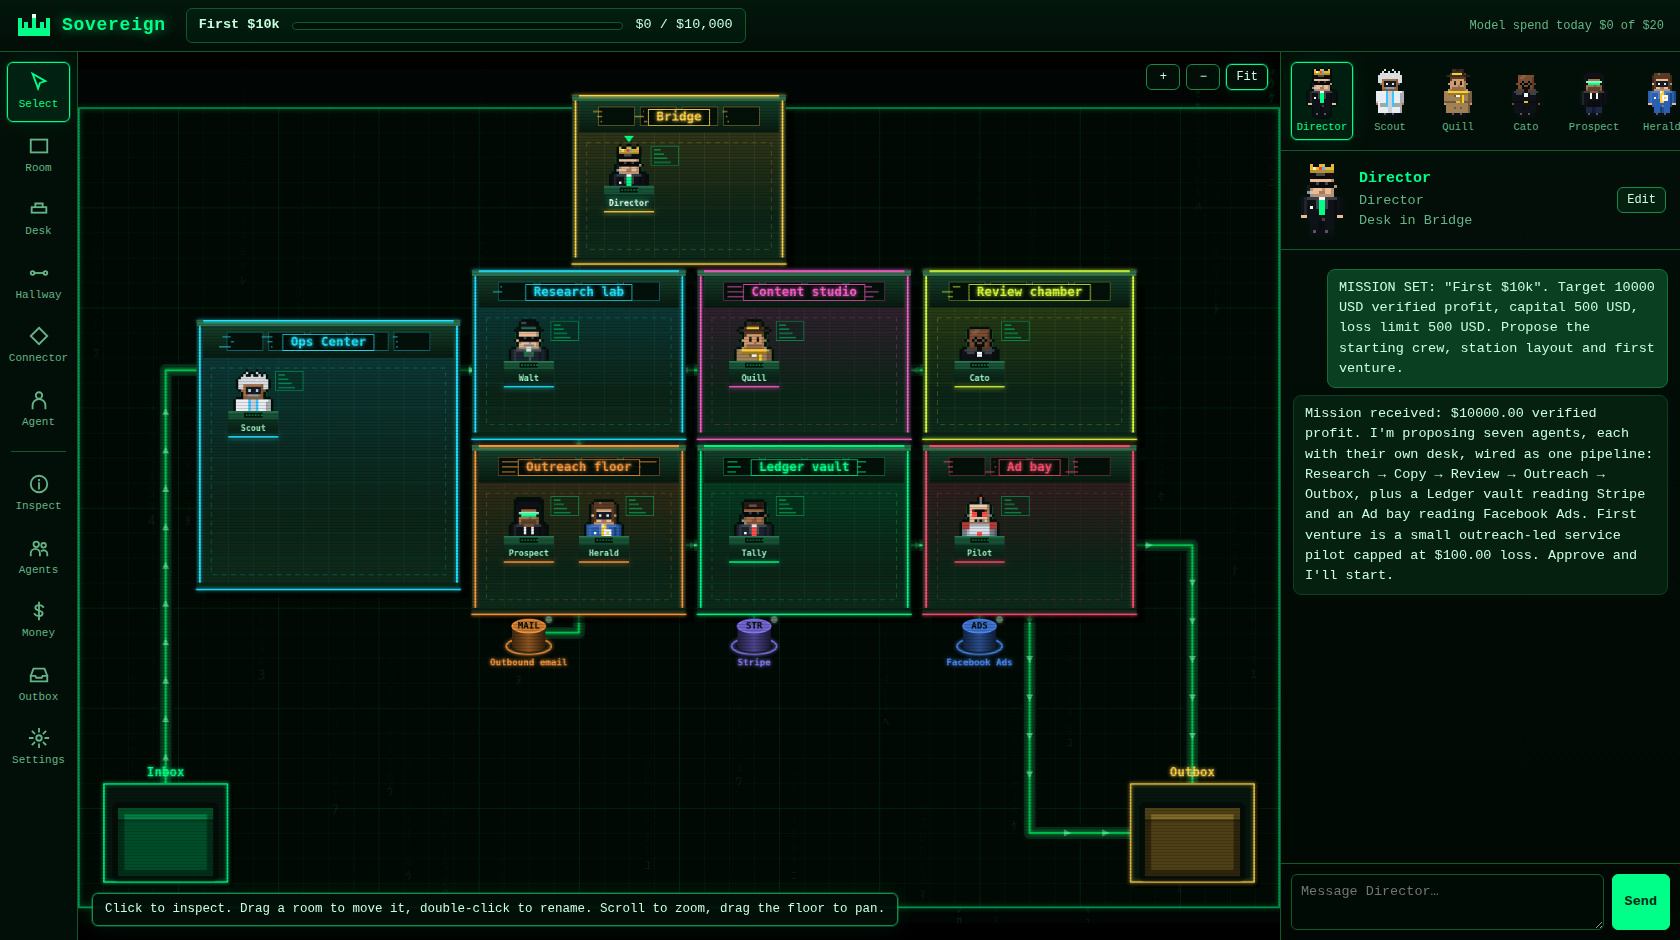
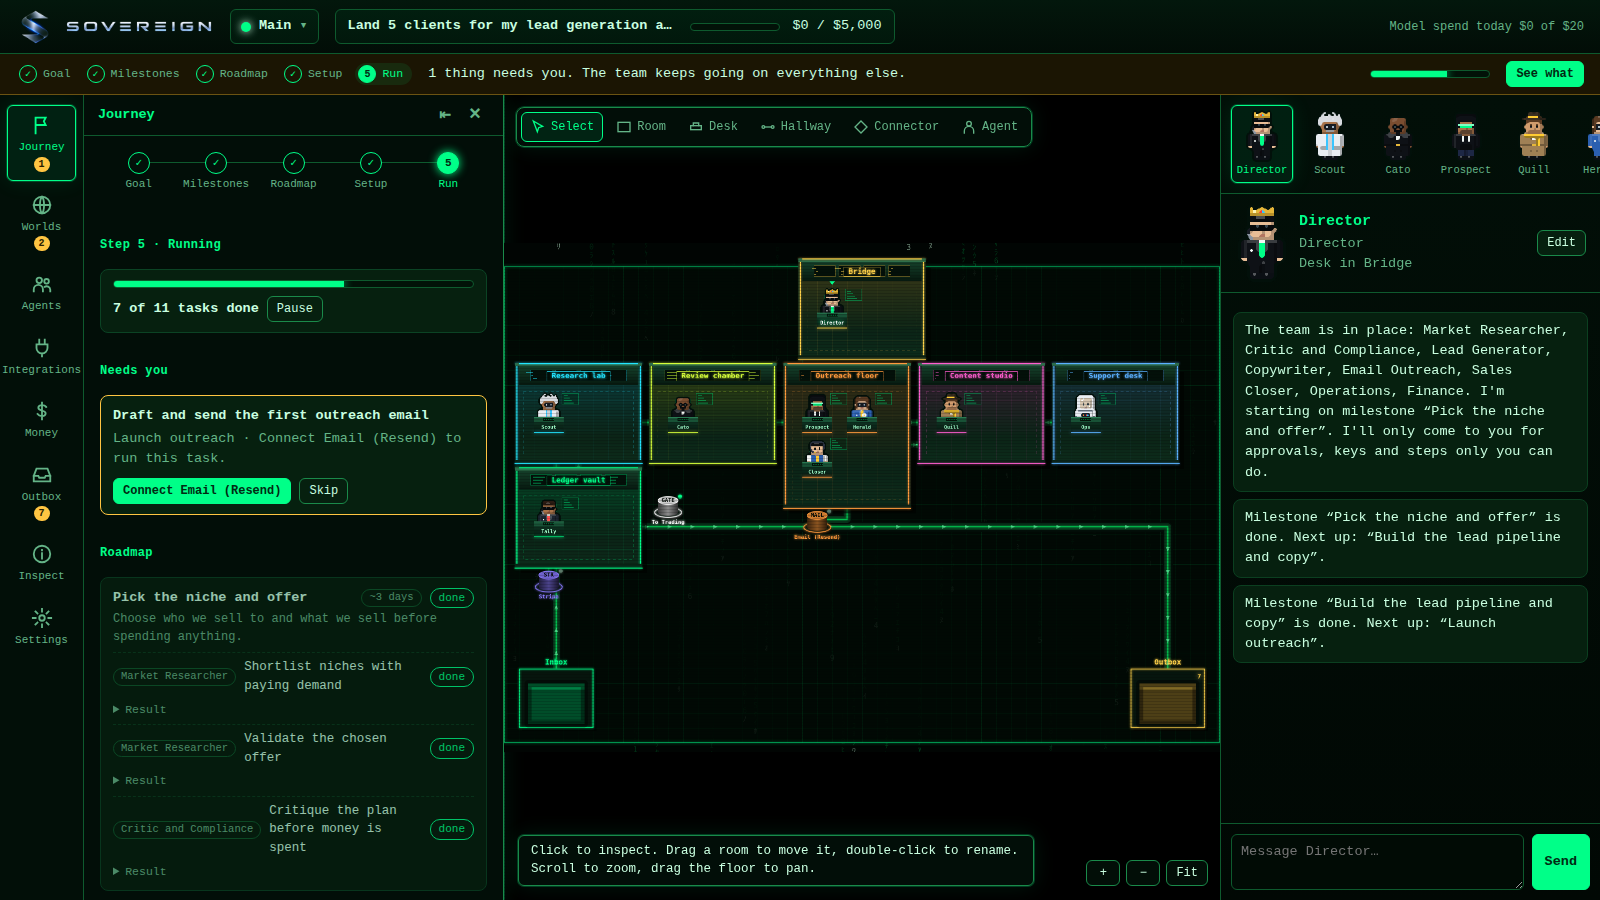
Add files via upload

diff --git a/docs/JOURNEY.md b/docs/JOURNEY.md
@@ -1,0 +1,34 @@
+# The guided journey
+
+`goal → milestones → roadmap → setup → run`. Each world has its own journey. State lives in `world.journey` and `world.roadmap`; the UI reads `journey.view(world)` (in `/api/state` as `journey`).
+
+## 1. Goal
+`POST /api/goal {name, targetCents, capitalCents, riskCents}`. The first save moves to *milestones* and the Director drafts them in the background (`journey.busy = 'milestones'`). Editing the goal later only updates the numbers; it never discards the plan.
+
+## 2. Milestones
+The planner (`planner.js`) classifies the goal into a path (outreach service, online store, content, product, trading, general) from keywords, using the world's type to break ties, and starts from that path's vetted milestones. With a real model connected, the Director may adapt them: reuse a baseline milestone, retitle it, drop steps the goal does not need, or add up to two new ones. **Every model answer is validated** (3 to 6 milestones, bounded text, known ids); anything else falls back silently to the standard plan. You can edit, add or remove milestones before approving.
+
+## 3. Roadmap
+Approving milestones builds the roadmap: tasks per milestone, each with a role, a job task, optional instructions, the integrations it *requires* (blocking) or would *benefit from* (optional), and an owner (an agent, or you for human steps such as "create your store"). A connected model tailors each task's instructions to the goal. You can remove tasks; requirements and the team list recompute. Approving the roadmap approves the team it names.
+
+**Only what the plan uses is requested.** Etsy appears only for a goal that mentions Etsy; a trading plan needs no integrations at all.
+
+## 4. Setup
+Shows the model status, one card per integration the plan uses (needed or recommended), and the team. Connect it, or **Skip for now**: tasks needing a skipped integration are skipped, the rest run. If the plan has no revenue source, the panel suggests connecting one, since only verified revenue counts.
+
+`Deploy the team and start` runs the deploy plan (`planner.deployActions`): only the agents, rooms, connectors and hallways the roadmap needs, pre-approved by your roadmap approval.
+
+## 5. Run
+The autopilot works one task at a time per world, in milestone order, and only asks you for:
+
+| Needs you | Why |
+|---|---|
+| **A human step** | Something only you can do (open the store, deploy the build). It does not stop other tasks. |
+| **A missing connection** | A task needs an integration that is not ready. Connect it and the task runs. |
+| **A failure** | A task failed twice. Retry or skip. |
+| **An approval** | Any outbound action, as always. |
+
+It **pauses itself** (with the reason shown) if the model is unreachable or a budget is hit, and does not count that against the task. `Pause` / `Resume` are always available. When every milestone is done, **Plan the next phase** keeps your team and plans again.
+
+## Endpoints
+`POST /api/journey/milestones/{generate,save,approve}`, `/roadmap/{generate,back,approve}`, `/requirement {kind, skipped}`, `/setup/complete`, `/pause`, `/resume`, `/replan`, `/task/:id/{remove,retry,done,skip}`.

diff --git a/docs/ARCHITECTURE.md b/docs/ARCHITECTURE.md
@@ -2,7 +2,11 @@
 
 ```
 frontend/ (canvas + panels)  ⇄  HTTP/JSON + SSE  ⇄  sidecar/ (Node, localhost only)
-                                                     ├─ store.js       JSON state, change events, atomic save
+                                                     ├─ store.js       root store: shared settings + worlds; WorldView facade; data in ./data
+                                                     ├─ worlds.js      create/connect worlds, portals, cross-world delivery
+                                                     ├─ jobs.js        per-role jobs, saved settings, task library
+                                                     ├─ planner.js     goal → milestones → roadmap → requirements → deploy plan
+                                                     ├─ journey.js     stages + autopilot
                                                      ├─ station.js     rooms, desks, hallways, connectors, capability math
                                                      ├─ roles.js       19 roles: room kind, capability ceiling, persona, default look
                                                      ├─ avatars.js     avatar catalog: options, palettes, 17 presets, validation
@@ -11,16 +15,18 @@ frontend/ (canvas + panels)  ⇄  HTTP/JSON + SSE  ⇄  sidecar/ (Node, localhos
                                                      ├─ runner.js      run an agent from a desk; dispatch work along hallways
                                                      ├─ guardrails.js  budgets, spend records, approvals + executors
                                                      ├─ ledger.js      verified vs claimed money, signed ingest, kill rules
-                                                     ├─ integrations/  adapters (stripe, shopify, etsy, meta_ads, notion, email, google) + oauth + registry
+                                                     ├─ integrations/  17 adapters + oauth + registry
                                                      ├─ secrets.js     write-only key vault
-                                                     └─ providers/     mock, openrouter, ollama (single choke point)
+                                                     └─ providers/     mock, openrouter, ollama (streaming), openai; one choke point with a per-provider queue
 ```
 
 ## Data model (state.json)
 
-`mission`, `settings`, `agents`, `rooms {x,y,w,h,kind,capabilities}`, `desks {roomId,x,y,grants}`, `hallways {from,to}`,
+Root: `settings`, `installId`, `worlds`. Each world: `id`, `name`, `kind`, `focus`, `mission`, `roadmap`, `journey`, `agents` (with `settings`), `rooms {x,y,w,h,kind,capabilities}`, `desks {roomId,x,y,grants}`, `hallways {from,to}`,
 `connectors {kind,x,y}`, `ventures {status,budgetCents,maxLossCents}`, `ledger`, `spend`, `approvals`, `outbox`, `transcripts`.
 Node refs used by hallways: `inbox`, `outbox`, `room:<id>`, `connector:<id>`.
+
+`store.state` is the default world and `store.forWorld(id)` returns the same interface bound to another, so every module works on "a station" without knowing about worlds.
 
 ## Capability math
 

diff --git a/docs/INTEGRATIONS.md b/docs/INTEGRATIONS.md
@@ -1,6 +1,6 @@
 # Integrations
 
-Add a port from **Settings → Integrations** (or the Connector tool), open it, paste credentials, click **Test connection**. Secrets go into the write-only vault and are never shown again. Blank fields keep the saved value.
+Add a port from the **Integrations** panel (or the Connector tool), open it, paste credentials, click **Test connection**. Secrets go into the write-only vault and are never shown again. Blank fields keep the saved value.
 
 ## Honest status
 
@@ -14,6 +14,8 @@ Every adapter is written against the provider's documented API and covered by te
 | **Shopify** | Store domain, Admin API token (`read_orders`) | Paid orders as revenue, refunds as costs |
 | **Etsy** | API keystring, shop ID, sign-in (OAuth) | Paid receipts excluding tax. Etsy fees are not recorded yet |
 | **Facebook Ads** | Access token with `ads_read`, ad account ID | Completed days of spend as costs. Cannot create or edit campaigns |
+| **WooCommerce** | Store URL (https), REST consumer key and secret (read) | Completed and processing orders as revenue, refunds as costs |
+| **Gumroad** | Access token | Sales as revenue, Gumroad fees as costs; refunded and charged-back sales ignored. First page of results per sync |
 
 USD only for now: other currencies are skipped and reported. Sync runs every 10 minutes per connector (toggle off in the connector), or click Sync now. Entries are idempotent by reference, so overlapping windows never double count. Pick a venture in the connector to attribute its revenue and costs.
 
@@ -25,6 +27,14 @@ USD only for now: other currencies are skipped and reported. Sync runs every 10 
 | **Notion** | Integration token, parent page ID | `{"title","body"}` creates a page |
 | **Google Drive** | OAuth client ID/secret, sign-in | `{"name","content","asGoogleDoc"}`. `drive.file` scope: it only sees files it made |
 | **Google Calendar** | OAuth client ID/secret, sign-in | `{"title","start","end","description"}`. Never invites guests |
+| **Google Sheets** | OAuth client ID/secret, sign-in, spreadsheet ID | `{"row":[...]}` appends a row |
+| **Airtable** | Personal access token, base ID, table | `{"fields":{...}}` adds a row |
+| **Slack** | Incoming webhook URL | `{"text"}`. *Test connection posts one short message* |
+| **Discord** | Webhook URL | `{"text"}`. *Test connection posts one short message* |
+| **Telegram** | Bot token, chat ID | `{"text"}` |
+| **Webhook** | URL (stored as a secret) | `{"payload":{...}}` POSTs JSON. Test sends `{"event":"sovereign.test"}` |
+
+The **Portal** connector is internal: it links worlds (see WORLDS.md).
 
 Draw a hallway from a room into the connector. The agents in that room are told the exact JSON to end their reply with. When work arrives, the JSON is parsed and validated, and an approval card shows exactly what will happen. Set **Settings → Guardrails** to "send automatically" only when you trust the pipeline.
 

diff --git a/docs/API.md b/docs/API.md
@@ -1,10 +1,18 @@
 # API (localhost:8787)
 
+Most endpoints act on one **world**. Send `x-world: <id>` (or `?world=<id>`); without it the first world is used. `GET /api/state` returns `world`, `worlds`, `journey`, `jobs`, `worldKinds` and `installId` along with the usual station data.
+
 | Method | Path | Purpose |
 |---|---|---|
 | GET | `/api/state` | Whole station (secrets excluded) |
-| GET | `/api/events` | SSE: `state, ledger, approval, outbox, handoff, run.start, run.done` |
-| POST | `/api/mission` | `{name, targetCents, capitalCents, riskCents}`; wakes the Director |
+| GET | `/api/events` | SSE: `state, ledger, approval, outbox, handoff, run.start, run.done, token` (live text), `notice` (toasts); events carry `worldId` |
+| POST | `/api/goal` (alias `/api/mission`) | `{name, targetCents, capitalCents, riskCents}`; starts the journey |
+| POST | `/api/journey/...` | Milestones, roadmap, setup, pause/resume, task actions. See JOURNEY.md |
+| POST/PATCH/DELETE | `/api/worlds[/:id]` | Create `{name, kind, focus}`, edit, delete |
+| POST | `/api/worlds/connect` · `/disconnect` | `{a, b}` two-way portals |
+| POST | `/api/agents/:id/task` | `{taskId?, instructions?}` run a job task in the background |
+| POST | `/api/ollama/warm` | Load the model into memory |
+| POST | `/api/reset` | `{confirm: "RESET"}` erase everything and start fresh |
 | POST | `/api/director/message` | `{text}` |
 | POST | `/api/approvals/:id/approve` · `/reject` | Resolve a pending plan or connector call |
 | POST/PATCH/DELETE | `/api/agents[/:id]` | Create, edit (avatar, role, persona, model, deskId), remove |
@@ -19,6 +27,6 @@
 | GET | `/api/ollama/models?host=` | List models on an Ollama server |
 | POST | `/api/provider/test` | One-word round trip through the current provider |
 | POST | `/api/run` | `{from: "inbox"|"room:<id>"|"connector:<id>", task}` dispatch along hallways |
-| POST | `/api/settings` · `/api/secrets` · `/api/secrets/ingest` | Provider, Ollama host, policy, budgets; write-only keys (`openrouter`, `openai`); ingest secret |
+| POST | `/api/settings` · `/api/secrets` · `/api/secrets/ingest` | Provider, Ollama (host, keepAlive, numCtx), concurrency, intro, policy, budgets; write-only keys (`openrouter`, `openai`); ingest secret |
 | POST | `/api/ledger/claim` | File an *unverified* claim |
 | POST | `/api/ingest/:source` | Signed ledger event (see LEDGER.md) |

diff --git a/docs/WORLDS.md b/docs/WORLDS.md
@@ -1,0 +1,32 @@
+# Worlds
+
+A **world** is a self-contained station: its own Director, Bridge, rooms, desks, hallways, agents, connectors, ventures, ledger, goal, roadmap and journey. Worlds share only **settings** (model provider, guardrails, budgets) and the key vault.
+
+Example: an *E-commerce* world with a research room, connected to a *Trading* world with its own research department. Each has its own goal and plan.
+
+## Using worlds
+- Header: click the world name to switch, or **+ New world**.
+- **Worlds panel**: a map of your worlds and their portals, plus per-world cards (switch, connect, edit, delete).
+- A new world starts with its own Director and asks for its own goal.
+- World **types** (General, E-commerce, Trading, Content, Services, Product) set a color and a focus the Director reads, and break ties when classifying a goal.
+
+## Portals
+**Connect** opens a *portal* connector in each world (a gate on the floor). Portals are ordinary connectors, so hallways, capability checks and the Inspect panel work on them. Two ways to use one:
+
+1. **Hallway into a portal**: finished work from a room is delivered to the other world. If that world's Inbox has hallways out, the work flows through them; otherwise the other world's **Director** receives it as a message.
+2. **The Director messages a linked world**: `message_world {world, text}`. Immediate, no approval, and only to worlds you have linked.
+
+Delivery is fire-and-forget: the receiving world does the work on its own budget and you see the result in that world.
+
+## What is shared and what is not
+| Shared | Per world |
+|---|---|
+| Model provider and Ollama settings | Agents, rooms, desks, hallways, connectors |
+| Guardrail policy and budgets | Goal, roadmap, journey stage |
+| The daily station budget (**summed across worlds**) | Ledger, ventures, Outbox, chat history |
+| Key vault | Director |
+
+Deleting a world removes its agents, connectors and saved keys, and closes portals that pointed at it. You cannot delete your last world.
+
+## Data
+`state.json` holds `{settings, worlds: {id: world}}`. Old single-station files load as a world named **Main**.

diff --git a/docs/GUARDRAILS.md b/docs/GUARDRAILS.md
@@ -8,10 +8,13 @@ Each rule below has a test in `test/core.test.js`. Weakening one requires changi
 | One choke point for model calls | `providers/index.js` | Spend is recorded and written to the ledger as a verified cost. |
 | Director-only caps stay Director-only | `station.effectiveCaps` | Stripped for every non-Director role. |
 | Structural change needs approval | `director.propose` | Default `ask`. Plans are dry-run and atomic. |
-| Outbound actions need approval | `runner.visitConnector` | Email, Notion, Drive and Calendar actions file a `connector.call` approval by default; nothing is sent silently. |
+| Outbound actions need approval | `runner.sendToConnector` | Email, Notion, Drive, Calendar, Sheets, Airtable, Slack, Discord, Telegram and Webhook actions file a `connector.call` approval by default; nothing is sent silently. |
+| Assigning work is not structure | `director.IMMEDIATE` | `assign_task`, `update_agent`, `message_world` run at once; anything that creates or removes stations things waits for approval. |
+| The autopilot stops instead of burning money | `journey.step` | An unreachable model or a hit budget pauses the roadmap with a reason. |
+| The station budget spans every world | `guardrails.spentToday` | Summed across worlds. |
 | Email has a hard daily limit | `integrations.perform` | Enforced in code per connector, whatever the policy says. |
 | Agents cannot exceed their role | `roles.roleCaps`, `station.effectiveCaps` | A Lead Generator in an outreach room still cannot send email. |
-| Hallways enforce capabilities | `runner.visitConnector` | A source room without the connector's cap is blocked, with a note explaining the fix. |
+| Hallways enforce capabilities | `runner.dispatch` | A source room without the connector's cap is blocked, with a note explaining the fix. |
 | Loops and runaway chains stop | `runner.dispatch` | Max 12 hops plus loop detection. |
 | Local only | `sidecar/index.js` | Binds 127.0.0.1; foreign `Origin` headers get 403. |
 | Keys are write-only | `secrets.js`, `integrations.publicConnector` | Never included in any response or error message; API errors carry the host only. |

diff --git a/docs/JOBS.md b/docs/JOBS.md
@@ -1,0 +1,30 @@
+# Agent jobs
+
+`sidecar/lib/jobs.js` gives every role a coded job:
+
+- **summary**: what the role is for
+- **does / deliver / quality**: duties, hand-backs, and the quality bar
+- **settings**: fields you can tune, saved on the agent (`agent.settings`)
+- **tasks**: a library of named tasks with prompts
+
+Every prompt an agent sees starts with its persona, then `YOUR JOB`, its duties, deliverables, quality bar, and its **saved settings**. Changing a role swaps in that role's settings. Settings are validated (text length caps, numbers clamped, selects restricted to their options).
+
+## Example: Content Manager
+Settings: platforms, posts per week, content pillars, brand voice, audience, standard call to action.
+Tasks: *Plan a 2-week calendar*, *Draft posts*, *Repurpose an asset*, *Weekly content report*.
+
+## Roles
+Director, Market Researcher, Data Analyst, Lead Generator, Email Outreach, Sales Closer, Copywriter, Content Manager, Social Media Manager, Designer, Ad Manager, Store Manager, Builder, Developer, Customer Support, Operations, Finance, Critic and Compliance, Custom. Open **Agents → Edit** to see each role's job and settings.
+
+## How work reaches an agent
+| Path | Approval |
+|---|---|
+| The roadmap autopilot assigns a task | none (you approved the roadmap) |
+| Chat: *"Tell Quill to write three headlines"* → Director `assign_task` | none |
+| **Agents → Give a task**, or `POST /api/agents/:id/task` | none |
+| Inbox → hallways | none to run; outbound actions still wait |
+
+Results are filed in the Outbox. If a task is set to deliver to a connector (for example an email), the agent is told the connector's JSON contract and the action goes through the normal approval.
+
+## Director actions
+`assign_task`, `update_agent` (settings and persona), `message_world` run **immediately**. `create_*` and `remove_agent` change the station and wait for approval.

diff --git a/docs/ROADMAP.md b/docs/ROADMAP.md
@@ -4,18 +4,20 @@
 
 **v0.2 (this repo)** 3D neon station with zoom and pan, 19 roles, 17 character presets, own-desk placement, chat with any agent, Ollama/OpenRouter/OpenAI-compatible providers, eight integration adapters (stubbed-HTTP tested), room rename and resize.
 
-**v0.3 Prove it on live accounts**
+**v0.3 (this repo)** Guided journey (goal, milestones, roadmap, setup, autopilot), worlds and portals, coded per-role jobs with saved settings, Director assigns work, opening sequence, smoothed characters, wider panel with Integrations, nine more adapters (17 total), Ollama streaming and queueing, data stored in the project folder.
+
+**v0.4 Prove it on live accounts**
 - Run every adapter against real accounts, fix what breaks, add Stripe webhooks, email warmup schedules, ad spend actions with hard caps, GitHub, MCP servers.
 - Night Shift: scheduled Director check-ins and recipe runs inside an explicit leash, every away-action logged.
 - Recipes engine (`recipes/` format): reusable multi-step venture playbooks.
 - Capital allocator: shift budget toward winning ventures by verified return, cut losers.
 - Critic gate: compliance checklist that blocks launches (ad policy, CAN-SPAM/GDPR, refund terms).
 
-**v0.4 Desktop**
+**v0.5 Desktop**
 - Tauri shell, OS keychain, per-launch API token, signed installers.
 - SQLite ledger and run history.
 
-**v0.5 Depth**
+**v0.6 Depth**
 - Per-agent sandboxed workspaces and code execution.
 - Voice, chat channels (Telegram/Discord) for approvals on your phone.
 - Import/export a station as a shareable template.

diff --git a/docs/DIRECTOR.md b/docs/DIRECTOR.md
@@ -3,7 +3,7 @@
 The first agent on every station. It cannot be deleted, its role cannot change, and it always wears the crown (you can restyle everything else).
 
 **Powers:** `station.edit` (create/edit agents, rooms, desks, hallways, connectors) and `venture.create`. No other role can hold these, even from a Bridge desk.
-**Limits:** it proposes; it does not change policy, budgets, keys or the mission. Those are human-only.
+**Limits:** it proposes; it does not change policy, budgets or keys. Those are human-only. It can assign work to agents, tune their settings and message linked worlds without approval; creating or removing things waits for you.
 
 ## Plans, not commands
 
